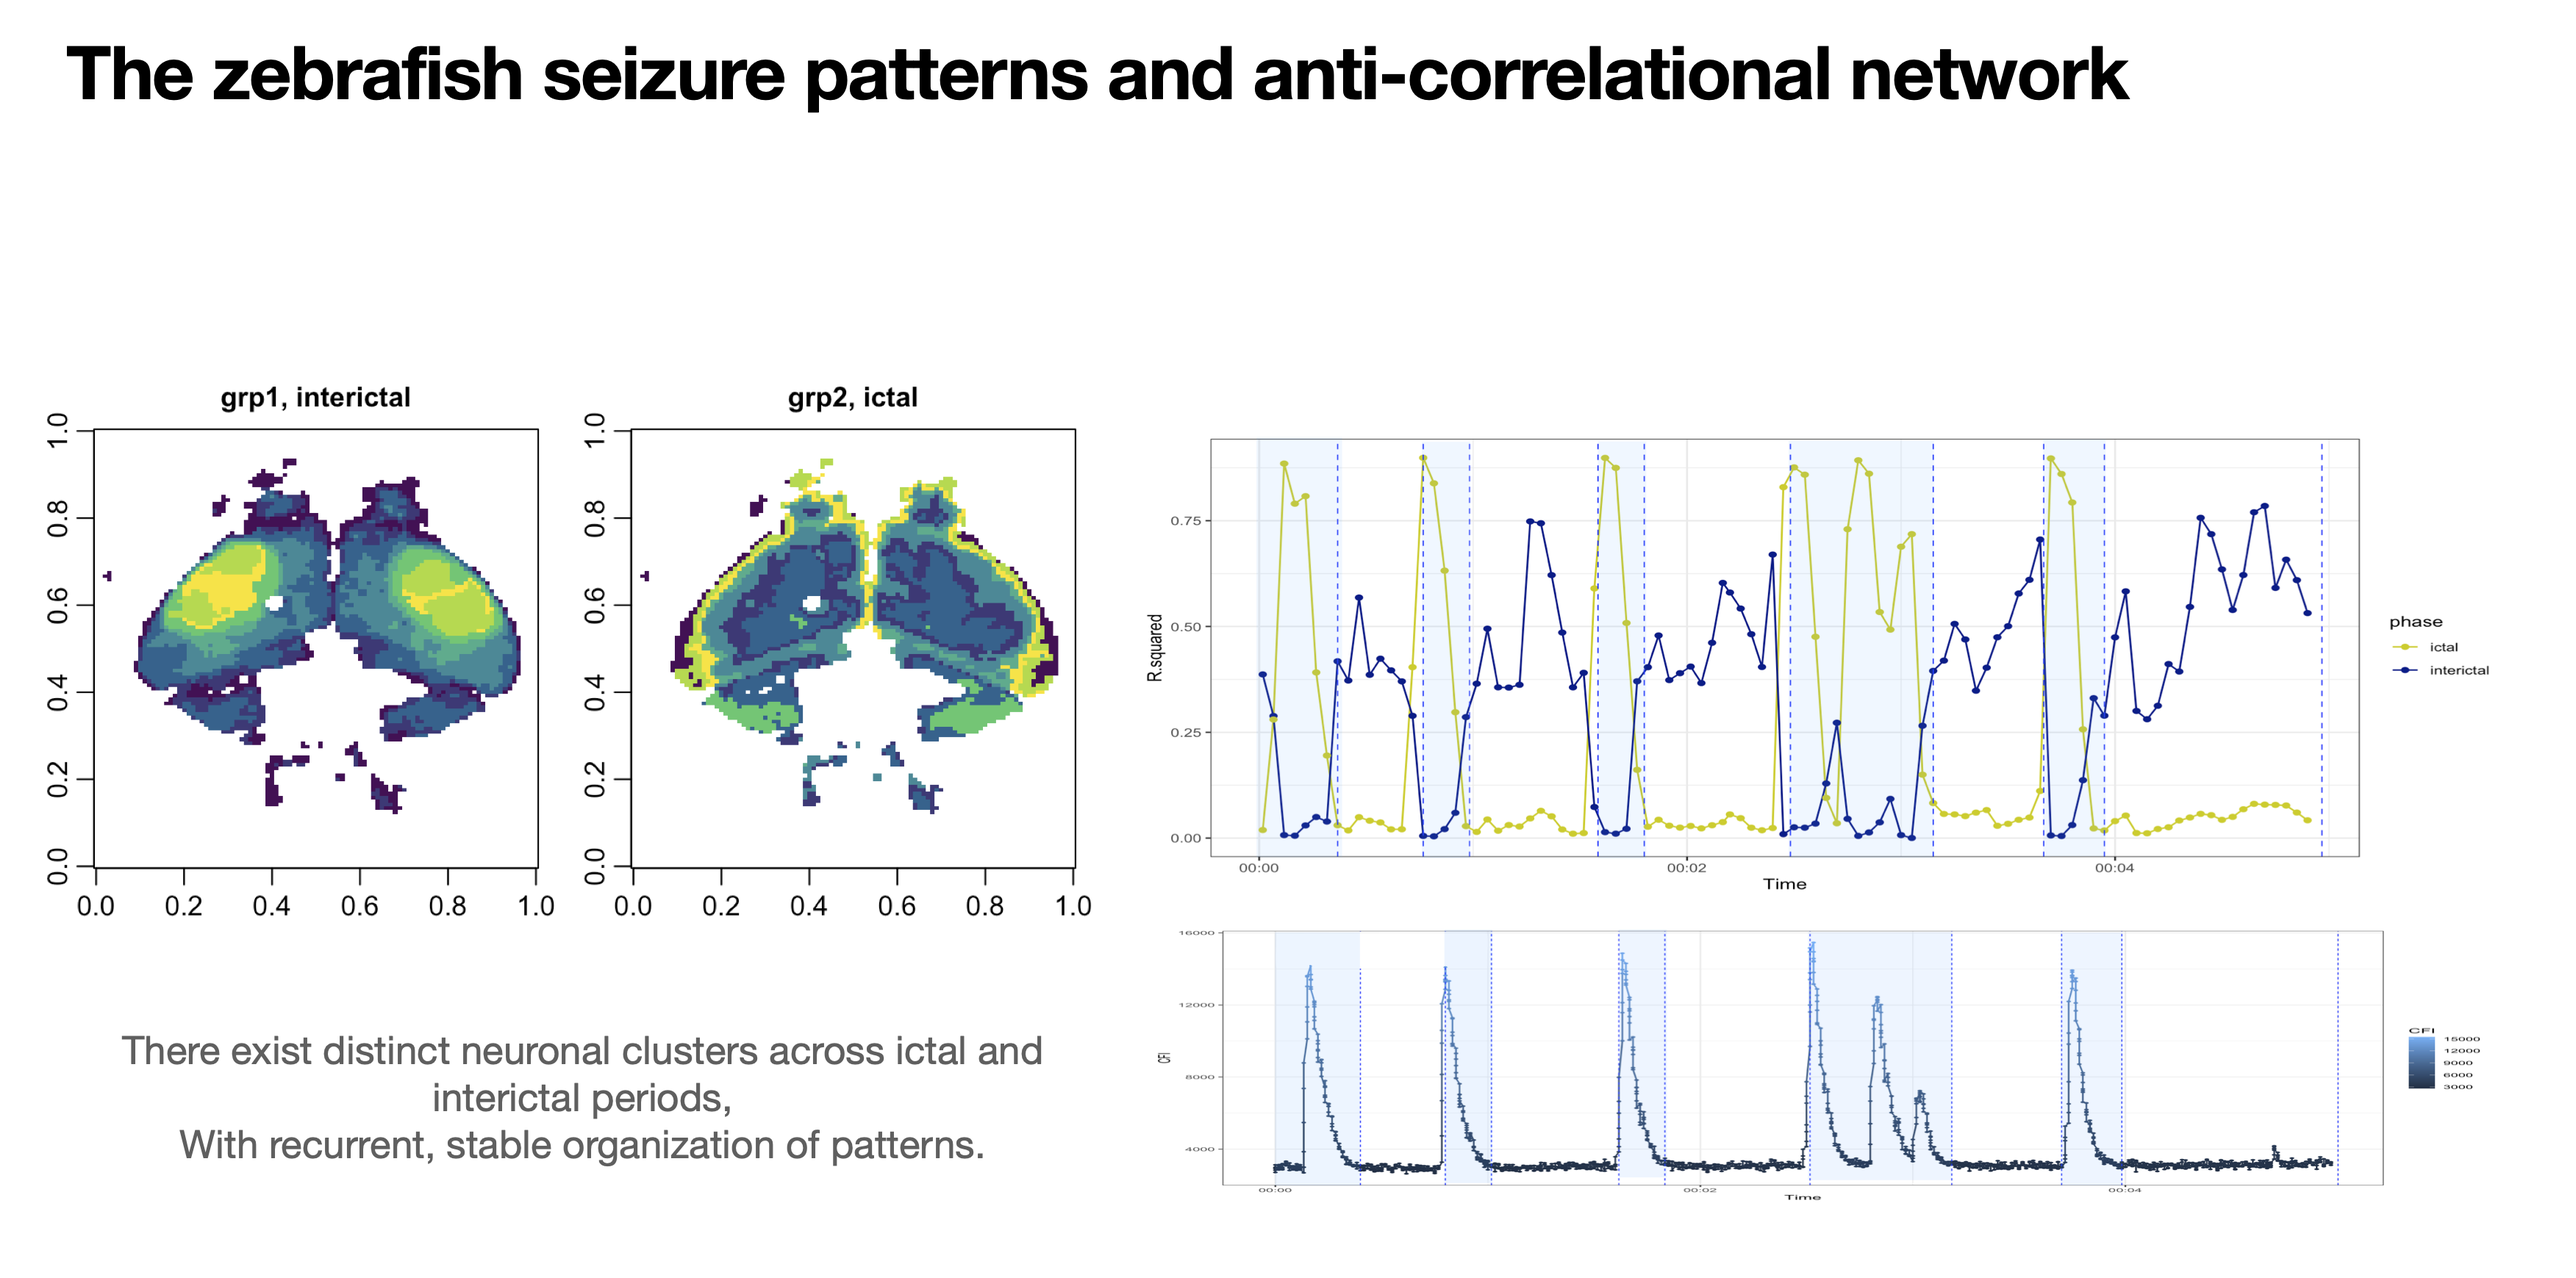
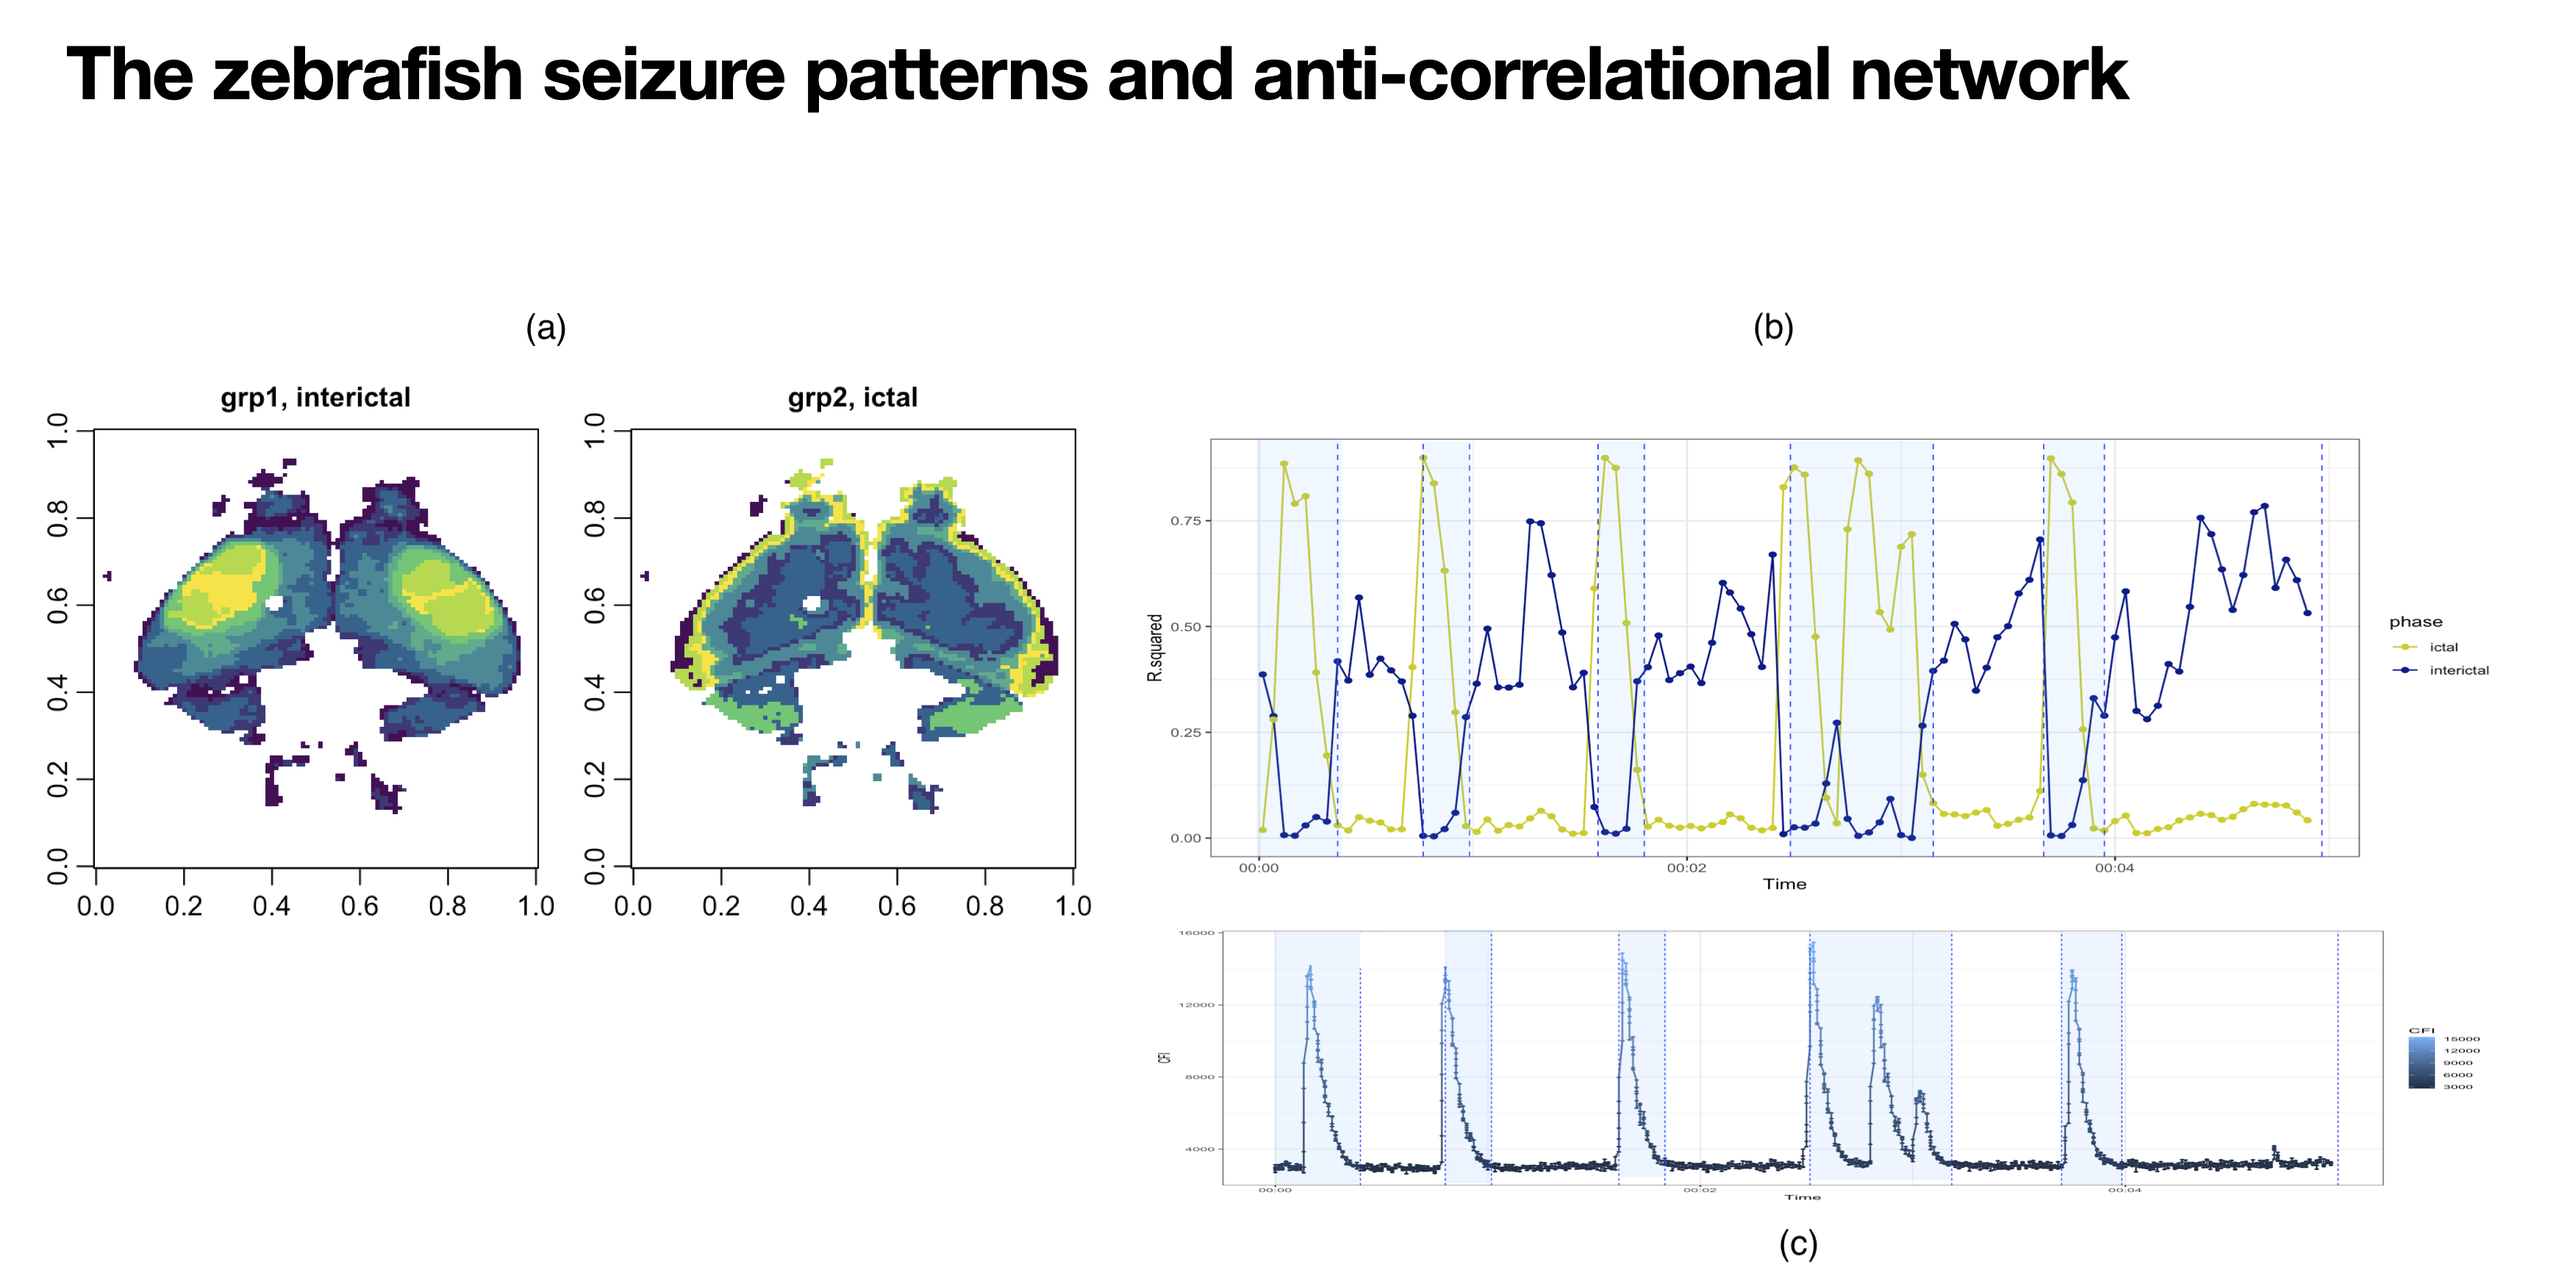
adding updates

diff --git a/_pages/project.md b/_pages/project.md
@@ -33,9 +33,9 @@ This project applies novel feature reconstruction techniques to fMRI data to bet
 <strong>Figure Description:</strong>
 <p style="margin-top:0.5em;">fMRI image reconstruction for a single subject using new feature reconstruction techniques:</p>
 <ul style="margin-top: 0.5em;">
-  <li>Panel (a): Displays regions of activation by human voices</li>
-  <li>Panel (b): Shows regions of activation when listening to human voices compared to nature sounds</li>
-  <li>Panel (c): Displays regions of activation by nature sounds</li>
+  <li> (a): Displays regions of activation by human voices</li>
+  <li> (b): Shows regions of activation when listening to human voices compared to nature sounds</li>
+  <li> (c): Displays regions of activation by nature sounds</li>
 </ul>
 </div>
 
@@ -64,12 +64,18 @@ This project involves the reconstruction, classification, and forecasting of epi
 
 <div style="font-family:Times New Roman; font-size:0.75em; margin-top:1em;">
 <strong>Figure Description:</strong>
-<p style="margin-top:0.5em;">CFI imaging reconstruction showing zebrafish larvae activity during PTZ induced epileptic seizure:</p>
+<p style="margin-top:0.5em;">CFI imaging reconstruction of PTZ induced zebrafish seizure:</p>
 <ul style="margin-top: 0.5em;">
-  <li>An anti-correlation network mapped across five cycles</li>
-  <li>Yellow regions indicate ictal patterns</li>
-  <li>Blue regions show interictal patterns</li>
-  <li>Patterns measured using R-squared values between CFI series and discovered patterns</li>
+  <li> (a): CFI heatmap with patterns of activation during Ictal and Interictal phases, respectively. </li>
+  <li> (b): Temporal Dynamics of Ictal and Interictal Pattern Fit (R-squared) across five seizure cycles 
+    <ul style="margin-top: 0.3em; margin-bottom: 0.3em;">
+      <li>Yellow curve indicates the fit of ictal features</li>
+      <li>Blue curve shows interictal features</li>
+      <li>Indicate an anti-correlational network between the two phases</li>
+    </ul>
+    </li>
+  <li> (c): Averaged CFI series curve of zebrafish larvea across five epileptic seizure cycles.  </li>
+ 
 </ul>
 </div>
 
